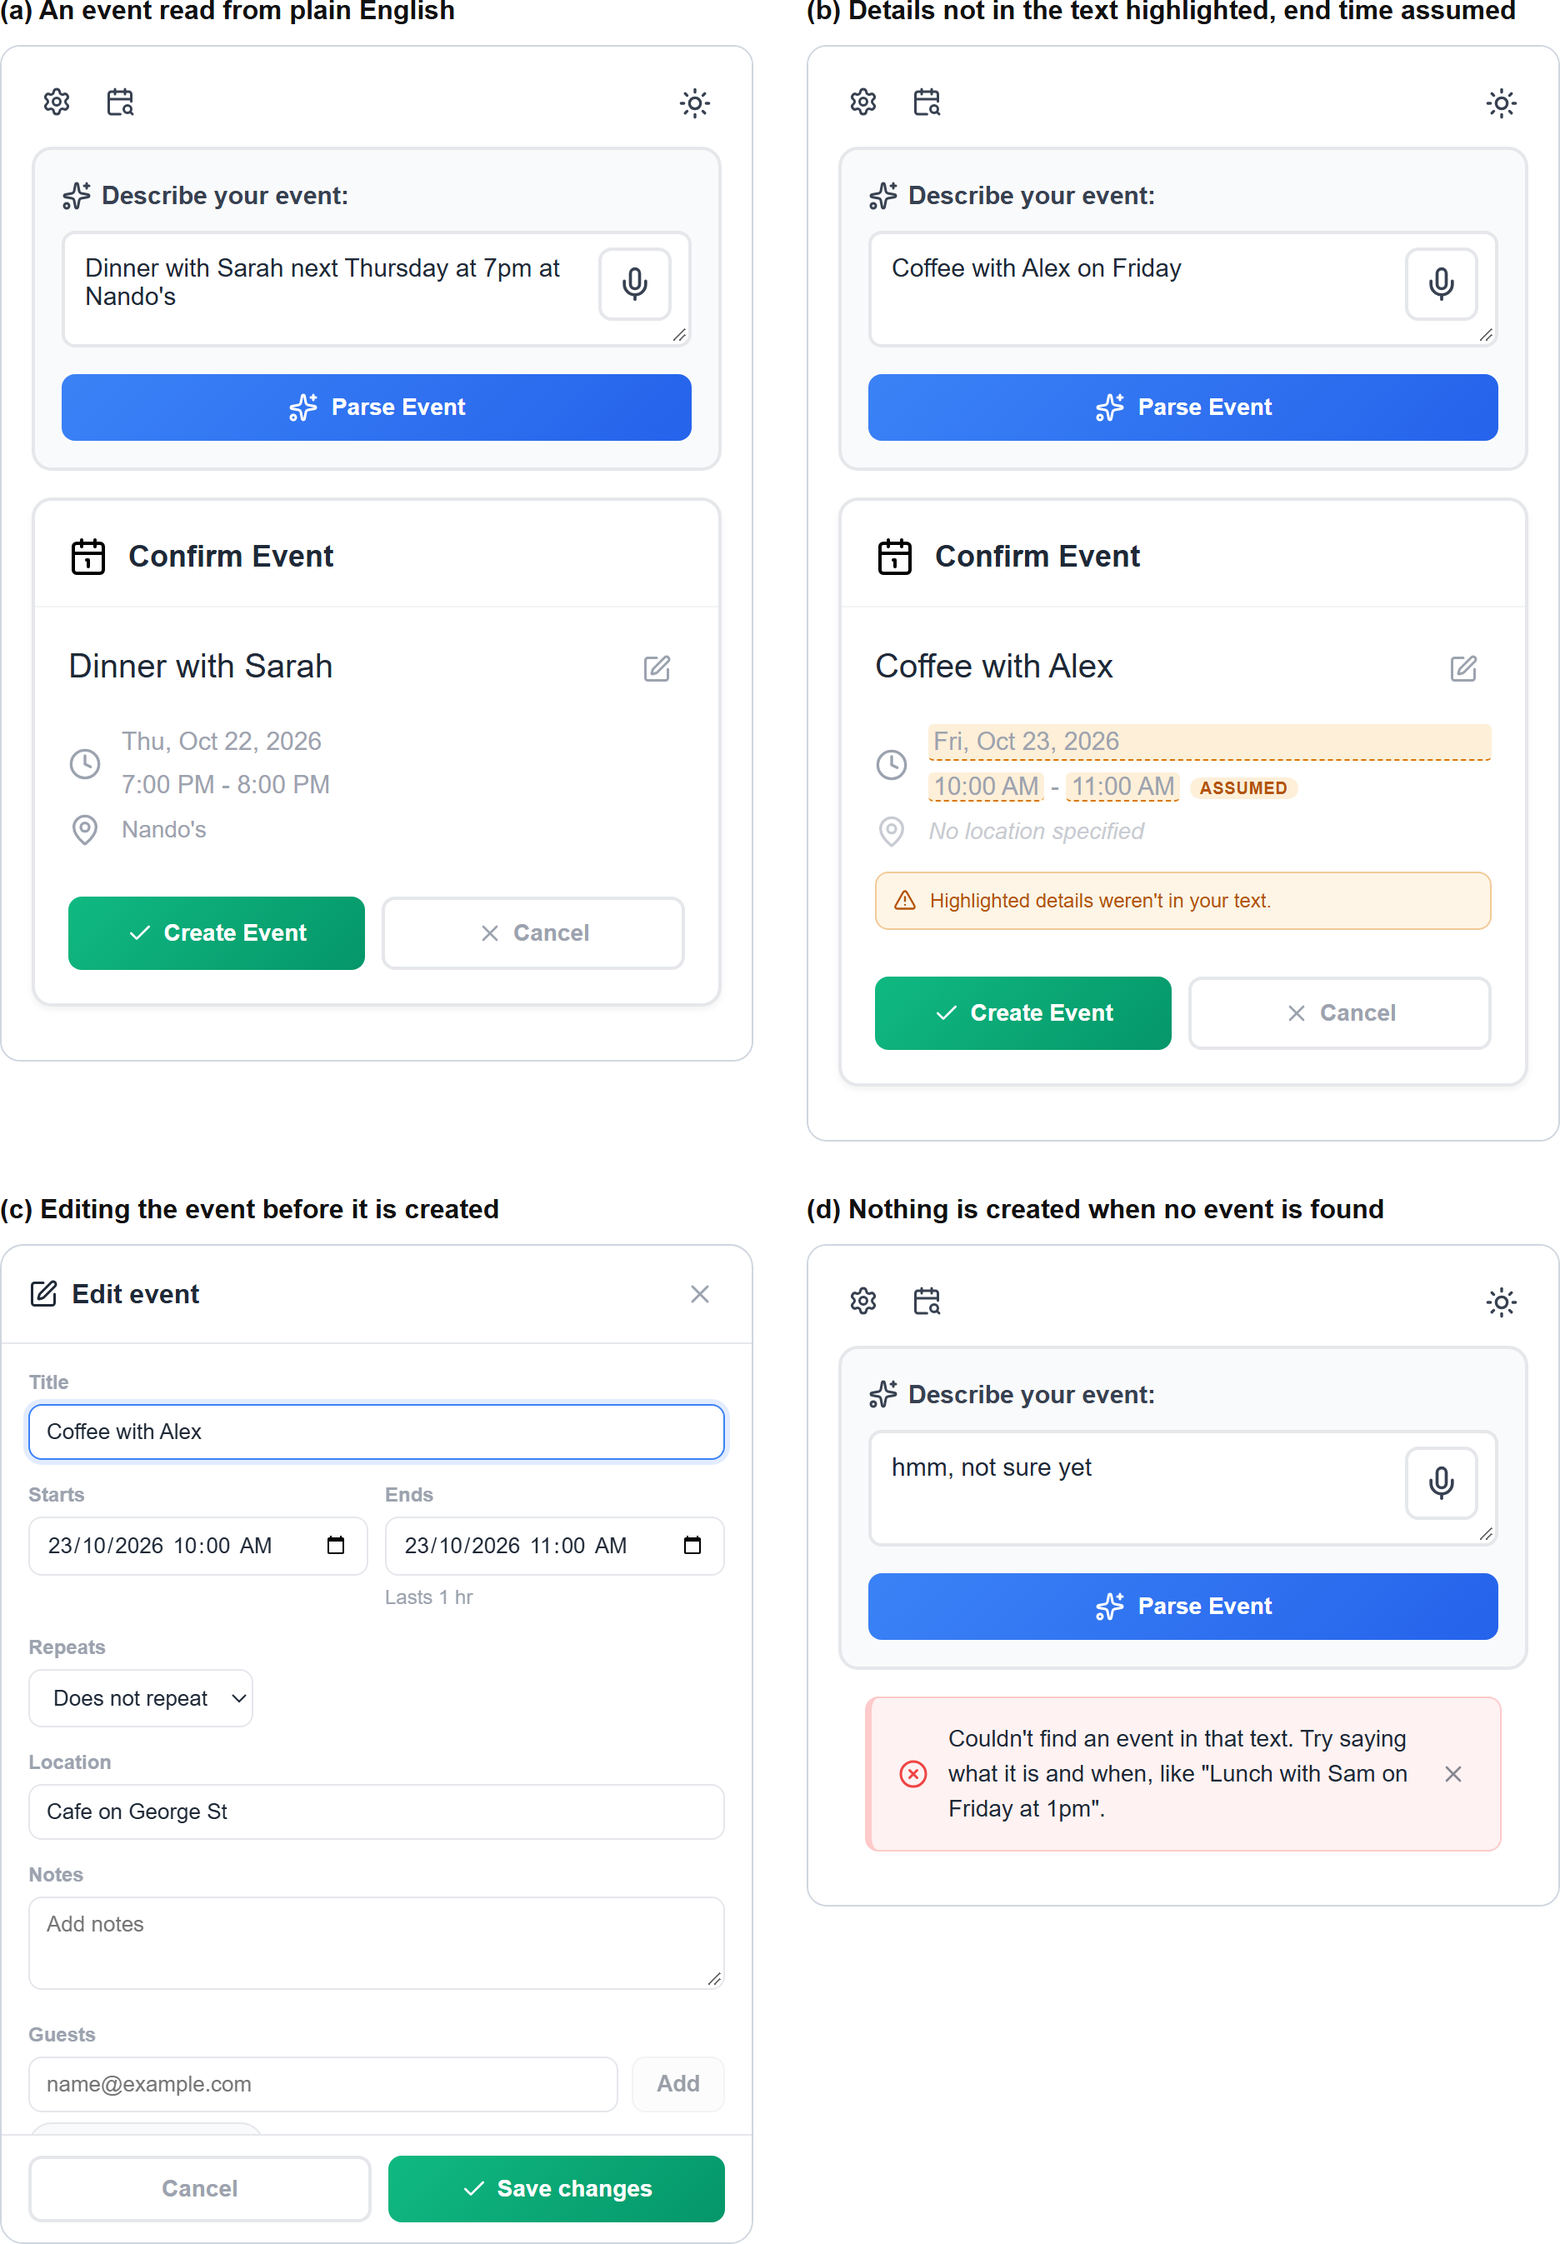
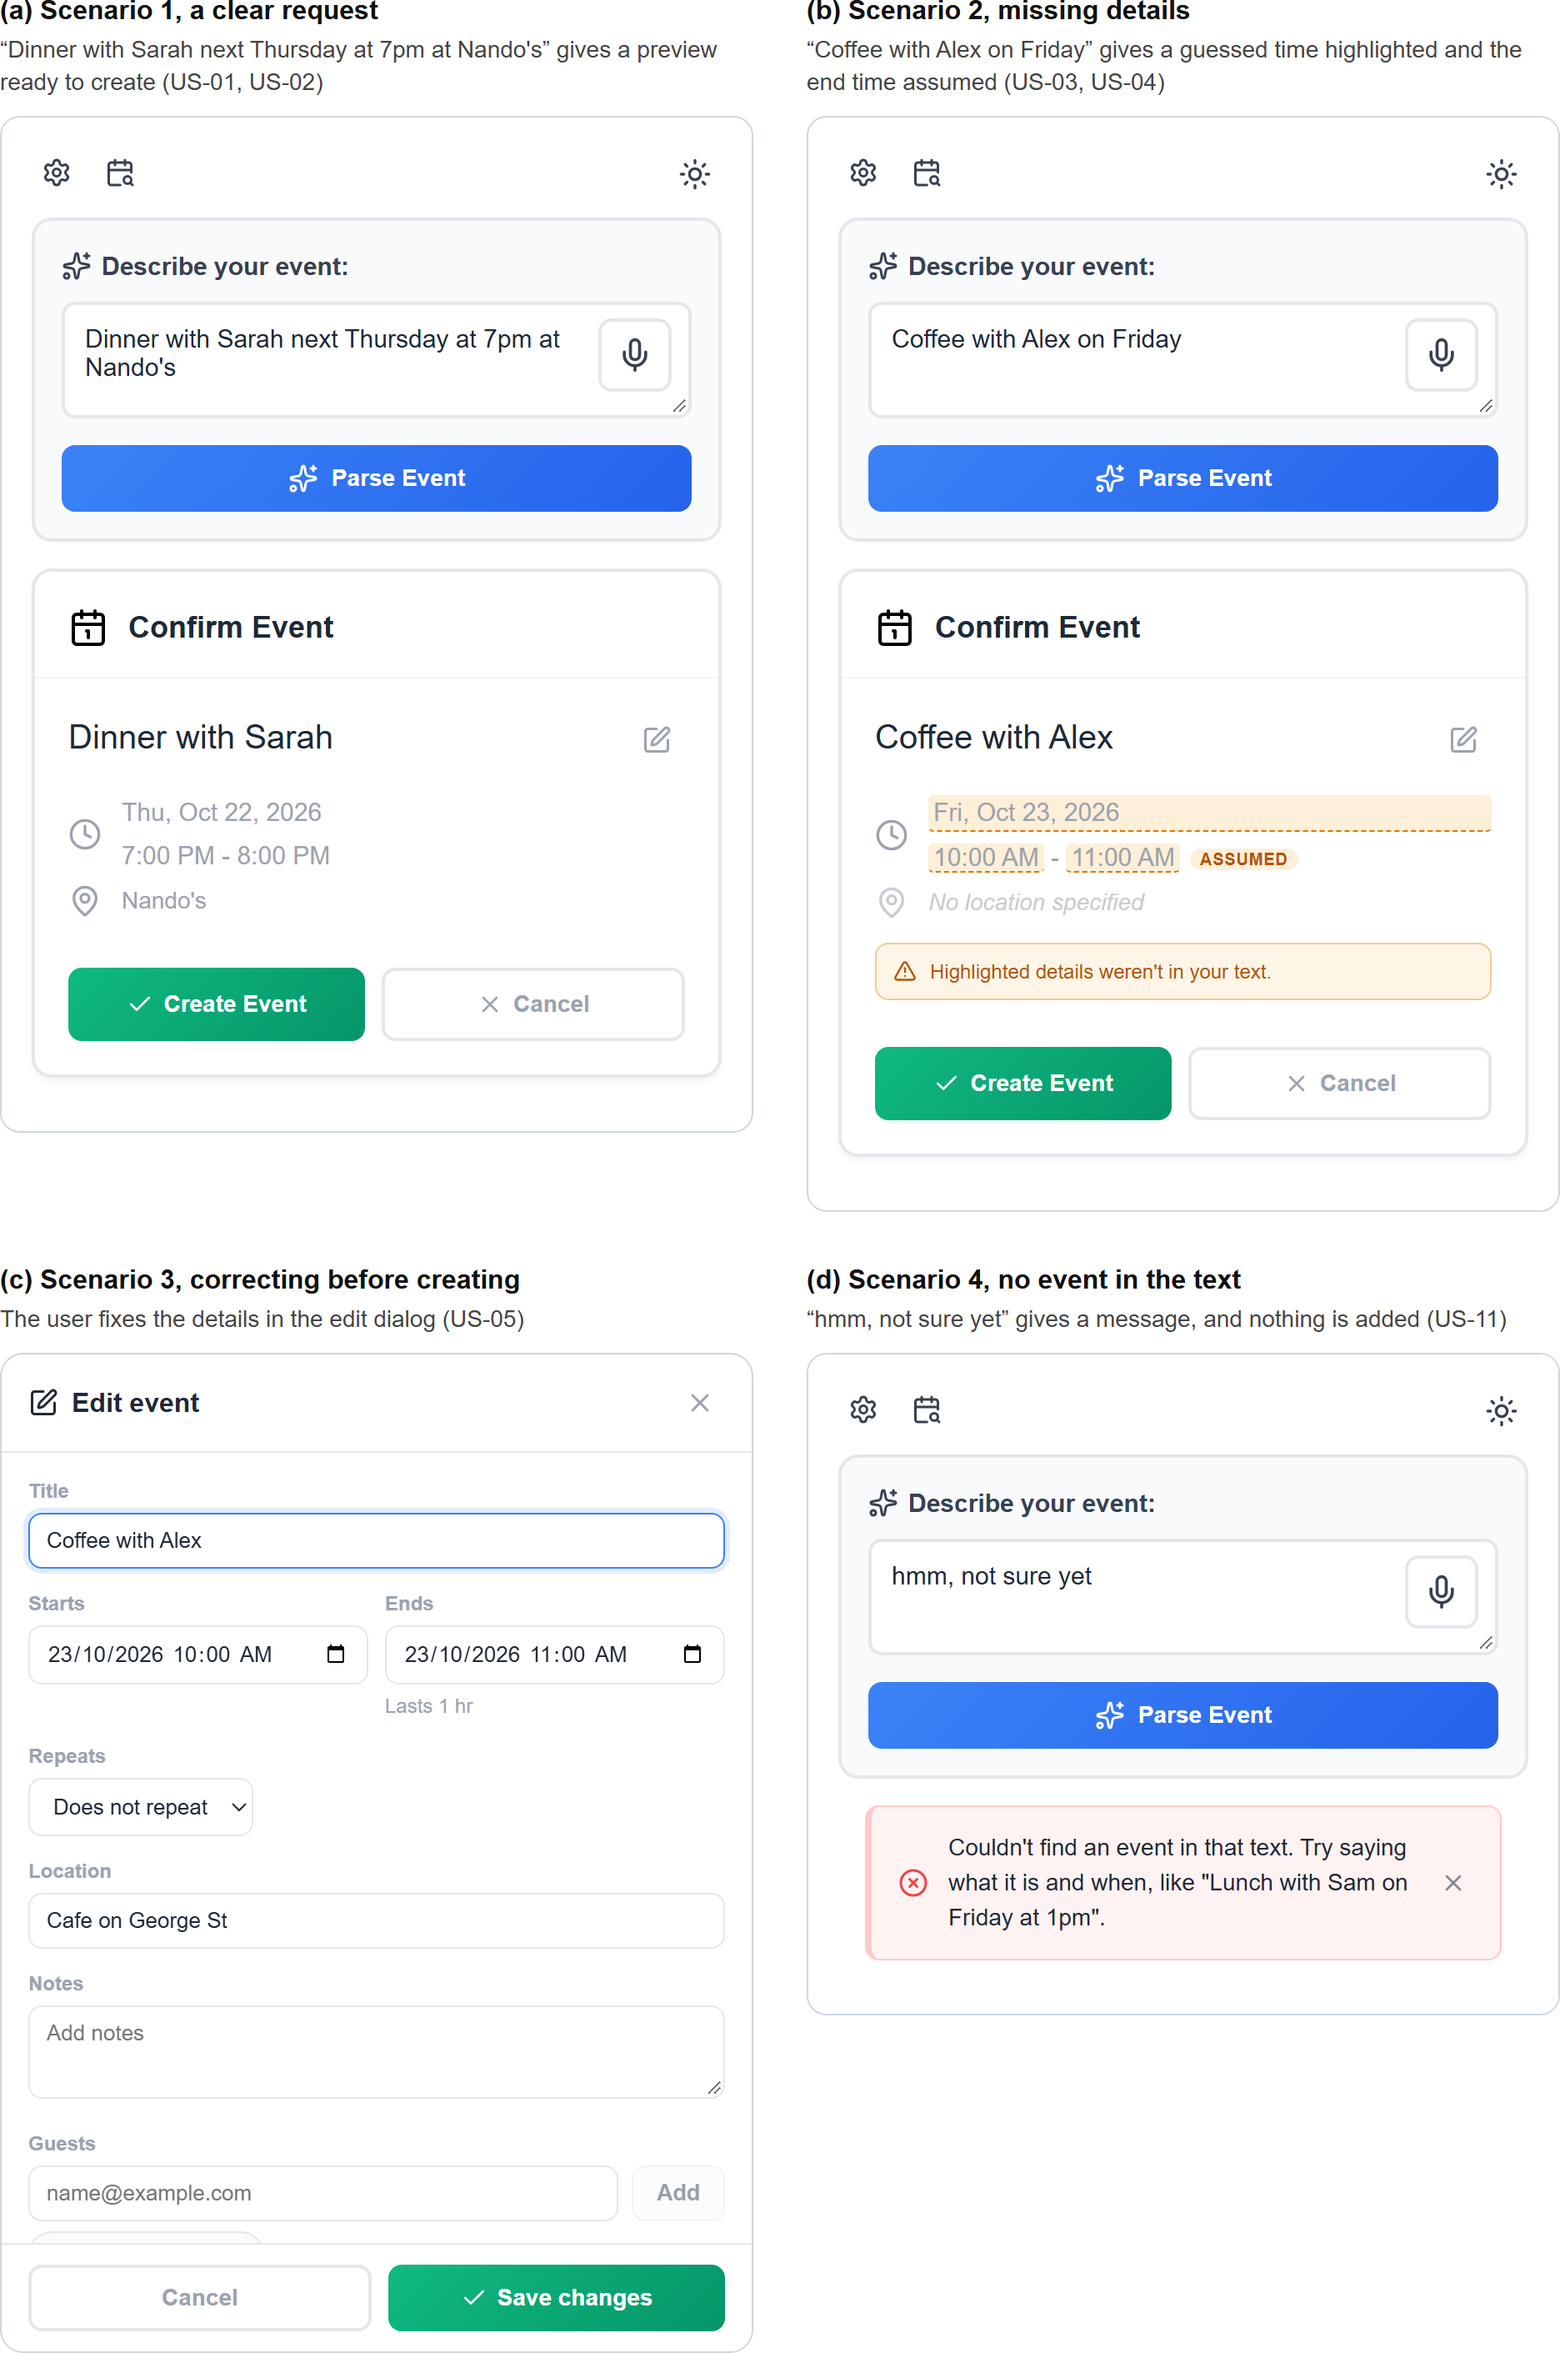
Label the report's interface figures as user scenarios
Each panel of Figures 7 and 8 is now a numbered scenario with a line saying
what the user does, what they get, and the user stories from Table 13 it
satisfies, so a reader can follow one scenario through the stories, the flow
diagram and the screen.

diff --git a/chrome-extension/store-screenshots/main.jsx b/chrome-extension/store-screenshots/main.jsx
@@ -415,11 +415,16 @@ SCREENS.marquee = () => (
   </div>
 );
 
-// Capstone report: Figure 7 (the core review flow) and Figure 8 (the newer
-// features), each a labelled grid of panels on white, cropped by capture.py.
-const Panel = ({ label, wide = false, hero = false, children }) => (
+// Capstone report: Figure 7 (core scenarios) and Figure 8 (extended
+// scenarios), each a grid of panels on white, cropped by capture.py. Each
+// panel is one user scenario: a title, then what the user does and gets, with
+// the user stories from Table 13 it satisfies.
+const Panel = ({ label, detail, wide = false, hero = false, children }) => (
   <div className={`report-panel ${wide ? "report-wide" : ""} ${hero ? "" : "no-hero"}`}>
-    <div className="report-label">{label}</div>
+    <div className="report-label">
+      {label}
+      {detail && <span className="report-detail">{detail}</span>}
+    </div>
     {children}
   </div>
 );
@@ -434,13 +439,22 @@ const NO_EVENT_MESSAGE =
 
 SCREENS["report-fig7"] = () => (
   <ReportFigure>
-    <Panel label="(a) An event read from plain English">
+    <Panel
+      label="(a) Scenario 1, a clear request"
+      detail="“Dinner with Sarah next Thursday at 7pm at Nando's” gives a preview ready to create (US-01, US-02)"
+    >
       {VISUALS.input()}
     </Panel>
-    <Panel label="(b) Details not in the text highlighted, end time assumed">
+    <Panel
+      label="(b) Scenario 2, missing details"
+      detail="“Coffee with Alex on Friday” gives a guessed time highlighted and the end time assumed (US-03, US-04)"
+    >
       {VISUALS.review()}
     </Panel>
-    <Panel label="(c) Editing the event before it is created">
+    <Panel
+      label="(c) Scenario 3, correcting before creating"
+      detail="The user fixes the details in the edit dialog (US-05)"
+    >
       <EditEventModal
         event={{
           title: "Coffee with Alex",
@@ -466,7 +480,10 @@ SCREENS["report-fig7"] = () => (
         categories={[]}
       />
     </Panel>
-    <Panel label="(d) Nothing is created when no event is found">
+    <Panel
+      label="(d) Scenario 4, no event in the text"
+      detail="“hmm, not sure yet” gives a message, and nothing is added (US-11)"
+    >
       <Popup>
         <Input text="hmm, not sure yet" />
         <div className="report-toast">
@@ -479,11 +496,25 @@ SCREENS["report-fig7"] = () => (
 
 SCREENS["report-fig8"] = () => (
   <ReportFigure>
-    <Panel label="(a) Adding an event from selected text with the right-click menu; the badge shows it is ready" wide>
+    <Panel
+      label="(a) Scenario 5, adding from an email"
+      detail="Select the text, right-click, and the badge shows when it is ready (US-10)"
+      wide
+    >
       {VISUALS.rightclick()}
     </Panel>
-    <Panel label="(b) A clash with the nearest free times">{VISUALS.clash()}</Panel>
-    <Panel label="(c) Finding a free time">{VISUALS.slots()}</Panel>
+    <Panel
+      label="(b) Scenario 6, a clash with an existing event"
+      detail="The warning offers the nearest free times (US-12)"
+    >
+      {VISUALS.clash()}
+    </Panel>
+    <Panel
+      label="(c) Scenario 7, finding a time first"
+      detail="Pick an open slot, and the editor opens with that time filled in"
+    >
+      {VISUALS.slots()}
+    </Panel>
   </ReportFigure>
 );
 

diff --git a/chrome-extension/store-screenshots/screens.css b/chrome-extension/store-screenshots/screens.css
@@ -509,3 +509,13 @@ html.report-image body {
 .report-panel .find-slot-results {
   max-height: none;
 }
+
+/* The scenario's one-line description under its title. */
+.report-detail {
+  display: block;
+  margin-top: 3px;
+  color: #444444;
+  font-size: 14px;
+  font-weight: 400;
+  line-height: 1.4;
+}
